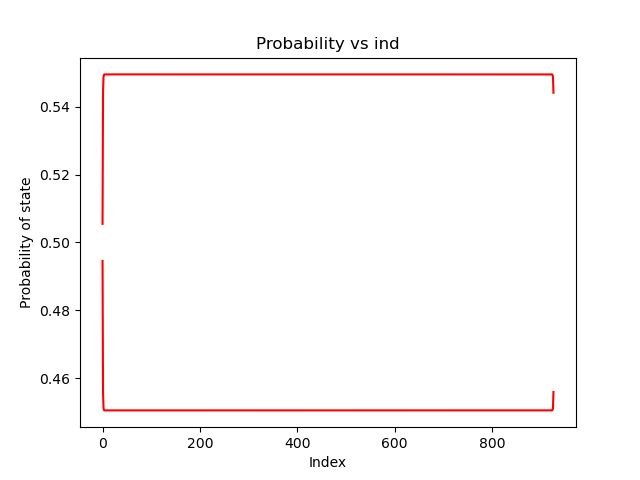
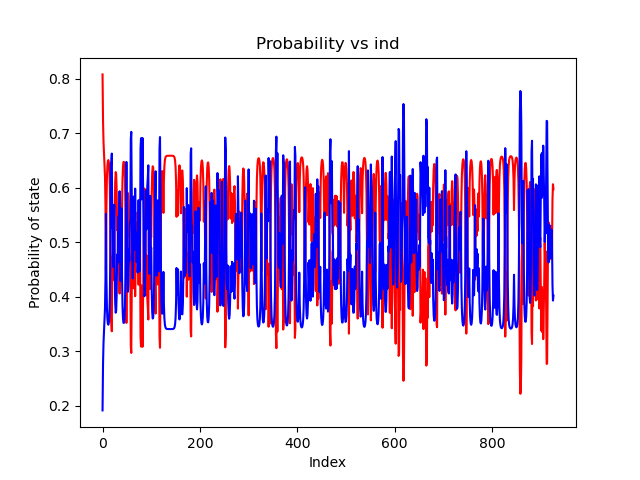
typo

diff --git a/parameters.py b/parameters.py
@@ -185,9 +185,13 @@ def optimize(seqlen, trees, nstates=2):
     i, t = normalize(i), normalize(t)
 
     i = np.log(np.array([0.5, 0.5]))
+    # t = np.log(np.array([
+    #     [1 - 0.01, 0.01],
+    #     [0.01, 1 - 0.01]
+    # ]))
     t = np.log(np.array([
-        [1 - 0.01, 0.01],
-        [0.01, 1 - 0.01]
+        [0.5, 0.5],
+        [0.5, 0.5]
     ]))
 
     guess = np.concatenate((i, np.ndarray.flatten(t)))
@@ -214,7 +218,7 @@ def saveplot(probs, factor):
     plt.ylabel("Probability of state")
     n, m = probs.shape
     plt.plot(range(m), probs[0, :], 'r-')
-    plt.plot(range(m), probs[1, :], 'r-')
+    plt.plot(range(m), probs[1, :], 'b-')
     plt.savefig("phylohmm%.2f.png" % factor)
 
 
@@ -224,7 +228,7 @@ def main():
     parser.add_argument('-f', action="store", dest="f", type=str, default='apoe.fa')
     # parser.add_argument('-mu', action="store", dest="mu", type=float, required=True)
     parser.add_argument('-c', action='store', dest='c', type=str, required=True)
-    parser.add_argument('-mul', action='store', dest='mul', type=float, default=2.0)
+    parser.add_argument('-mul', action='store', dest='mul', type=float, default=1.5)
     parser.add_argument('-nc', action='store', dest='nc', type=str, default=None)
 
     args = parser.parse_args()
@@ -241,7 +245,6 @@ def main():
         "hmm-sequence.fa",
         "test.fa"
     ]))
-    print(args.mul)
     trees = np.array([cons, non_cons])
 
     init, trans = optimize(data_len, trees)

diff --git a/tree.py b/tree.py
@@ -199,7 +199,7 @@ class Node:
         """
         left = self.left * other if self.left else None
         right = self.right * other if self.left else None
-        out = Node(self.name, left, right, self.branch_length, self.id, self.parent_id)
+        out = Node(self.name, left, right, self.branch_length * other, self.id, self.parent_id)
 
         if self.data:
             out.setData(self.data, self.seqlen)
